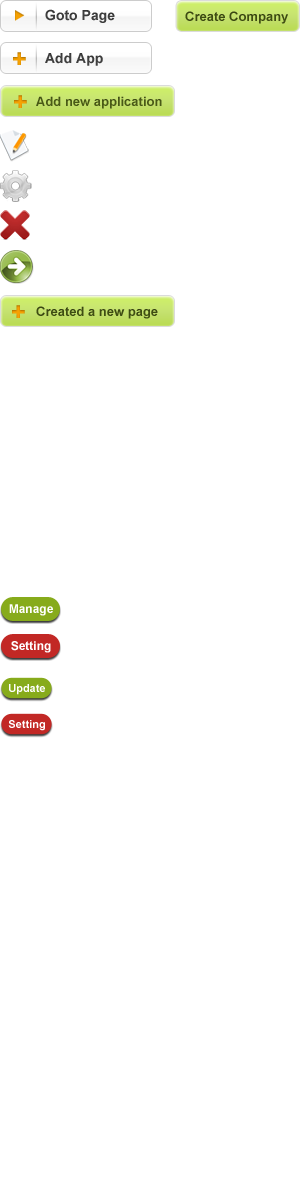
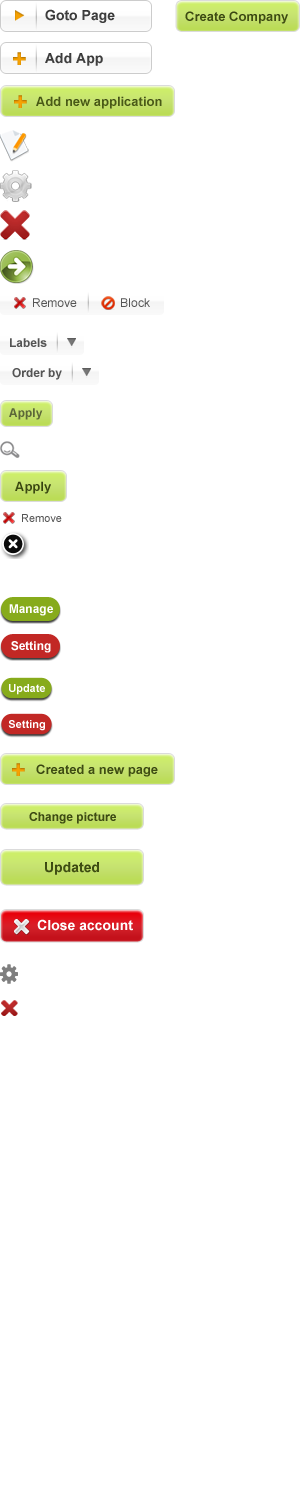
Update platform css

diff --git a/assets/css/common/platform.css b/assets/css/common/platform.css
@@ -811,12 +811,14 @@ div.popup-addapp>div:first-child+div div.strip { padding: 4px 0 20px;}
 /* --------------
 Button
 -----------------*/
-*.bt-go_page, *.bt-add_app, *.bt-addnew_app, *.bt-create_page, *.bt-edit, *.bt-setting, *.bt-delete, *.bt-go, *.bt-create_company, *.bt-manage_page, *.bt-setting_page, *.bt-update_app, *.bt-setting_app, *.bt-go-cam, *.bt-remove,*.bt-block, *.bt-label, *.bt-orderby, *.bt-apply  {
+*.bt-go_page, *.bt-add_app, *.bt-addnew_app, *.bt-create_page, *.bt-edit, *.bt-setting, *.bt-delete, *.bt-go, *.bt-create_company, *.bt-manage_page, *.bt-setting_page, *.bt-update_app, *.bt-setting_app, *.bt-go-cam, *.bt-remove,*.bt-block, *.bt-label, *.bt-orderby, *.bt-apply, *.bt-change_pic, *.bt-update, *.bt-close_account, *.bt-setting_company, *.bt-delete_company {
 	display: block;
 	background: url(../../images/bg/bg_button.png) no-repeat;
 	cursor: pointer;
+	border: none;
+	color: transparent;
 }
-*.bt-go_page span, *.bt-add_app span, *.bt-addnew_app span, *.bt-create_page span, *.bt-addnew_app span, *.bt-icon span, *.bt-create_company span, *.bt-manage_page span, *.bt-setting_page span , *.bt-update_app span, *.bt-setting_app span, *.bt-go span, *.bt-remove span,*.bt-block span, *.bt-label span, *.bt-orderby span,  *.bt-apply span{ display: none;}
+*.bt-go_page span, *.bt-add_app span, *.bt-addnew_app span, *.bt-create_page span, *.bt-addnew_app span, *.bt-icon span, *.bt-create_company span, *.bt-manage_page span, *.bt-setting_page span , *.bt-update_app span, *.bt-setting_app span, *.bt-go span, *.bt-remove span,*.bt-block span, *.bt-label span, *.bt-orderby span,  *.bt-apply span, *.bt-change_pic span, *.bt-update span, *.bt-close_account span, *.bt-setting_company span, *.bt-delete_company span {display: none;}
 *.bt-go_page {
 	width: 152px;
 	height: 32px;
@@ -932,9 +934,29 @@ Button
     height: 27px;
     width: 53px;
 }
-.bt-member {
-    padding-top: 7px;
+*.bt-member {padding-top: 7px;}
+*.bt-close_account {
+	display: block;
+	width: 144px;
+	height: 34px;
+	background-position: 0 -909px;
+	margin-top: 15px;
 }
+*.bt-setting_company {
+	float: left;
+	width: 18px;
+	height: 20px;
+	background-position: 0 -964px;
+}
+*.bt-delete_company {
+	float: right;
+	width: 18px;
+	height: 16px;
+	background-position: 0 -1000px;
+	margin: 3px 0 0;
+}
+
+
 .search {
 	display: block;
 	background: url(../../images/bg/bg_filter.png) no-repeat;
@@ -960,6 +982,23 @@ Button
 	background: url(../../images/bg/bg_button.png) no-repeat 0 -440px;
 	margin:5px 10px 0 0;
 }
+*.bt-change_pic {
+	display: block;
+	width: 144px;
+	height: 29px;
+	background-position: 0 -803px;
+	margin-bottom: 15px;
+}
+*.bt-update {
+	display: block;
+	width: 144px;
+	height: 39px;
+	background-position: 0 -849px;
+}
+*.bt-setting_company {}
+*.bt-delete_company {}
+
+
 /* --------------
 Filter-campaign
 -----------------*/
@@ -1338,4 +1377,162 @@ div.menuleft>ul>li>ul>li>ul>li>a:hover {
 	text-decoration: none;
 }
 div.menuleft>ul>li>ul>li>ul>li>a img {margin: 0 8px; border: 1px solid #d2d2d2; vertical-align: middle;} 
+
+
+/*setting right */
+div.wrapper-setting>div>div:first-child+div>div {
+	width: 600px;
+	margin: 0 auto;
+	border-bottom: 1px dotted #a6a6a6;
+	margin-bottom: 15px;
+}
+div.wrapper-setting>div>div:first-child+div>div.style01 {
+	background: #f3f3f3;
+	border: none;
+	-webkit-border-radius: 5px;
+    -moz-border-radius: 5px;
+    border-radius: 5px;
+}
+div.wrapper-setting>div>div:first-child+div>div>div { padding: 10px 35px;}
+div.wrapper-setting>div>div:first-child+div>div.style01>h2 span{ background: #f3f3f3 !important;}
+div.wrapper-setting>div>div:first-child+div>div.style01>h2 {background: url(../../images/bg/bg_setting-h2_01.png) 0 15px repeat-x;}
+
+div.wrapper-setting>div>div:first-child+div>div>h2 {
+	height: 33px;
+	line-height: 33px;
+	padding: 0 25px;
+	font-size: 20px;
+	font-weight: normal;
+	color: #555;
+	background: url(../../images/bg/bg_setting-h2.gif) 0 15px repeat-x;
+}
+div.wrapper-setting>div>div:first-child+div>div>h2 span {background: #fff; padding: 0 8px;}
+
+ul.form01 {padding: 15px 0;}
+ul.form01>li {
+	position: relative;
+	padding:  0 0 15px 160px;
+	font-size: 14px;
+	color: #3c3c3c;
+	min-height: 18px;
+}
+ul.form01>li>strong {
+	display: block;
+	width: 142px;
+	text-align: right;
+	position: absolute;
+	left: 0;
+	top: 0;
+	font-weight: normal;
+}
+ul.form01>li input[type="text"] {
+	width: 300px;
+	height: 25px;
+	padding: 0 5px;
+	border: 1px solid #e1e1e1;
+}
+ul.form01>li label {padding-right: 25px;}
+ul.form01>li.border {
+	border-bottom: 1px solid #e1e1e1;
+	margin-bottom: 15px;
+}
+
+p.head {
+	border-bottom: 1px solid #e1e1e1;
+	padding: 5px 0;
+	font-weight: bold;
+	width: 100%;
+	overflow: hidden;
+}
+p.head>span {float: left;}
+p.head>span:first-child {width: 142px; text-align: right;}
+p.head>span:first-child+span { width: 280px; padding-left: 18px;}
+ul.style01>li {
+	width: 290px;
+	padding: 0 0 10px 0;
+	position: relative;
+}
+ul.style01>li input[type="checkbox"] {
+	position: absolute;
+	left: 288px;
+	top: 3px;
+}
+
+div.pic-profile {
+	width: 145px;
+	min-height: 55px;
+	padding-left: 73px;
+	position: relative;
+	overflow: hidden;
+	font-size: 12px;
+	text-align: center;
+	background: url(../../images/bg/bg_or.png) 98% 32px no-repeat;
+}
+div.pic-profile p.pic {
+	float: left;
+	border: 3px solid #e3e3e3;
+	position: absolute;
+	left: 0;
+	top: 0;
+}
+div.box-company-manage {padding: 15px 0 !important;}
+div.box-company-manage>h2 {
+	font-size: 14px;
+	padding: 10px;
+	border-bottom: 1px solid #e1e1e1;
+	position: relative;
+}
+div.box-company-manage>h2 span {
+	position: absolute;
+	left: 514px;
+	top: 10px;
+}
+div.box-company-manage div.detail-list {
+	border-bottom: 1px solid #e1e1e1;
+	padding: 0 0 8px;
+}
+div.box-company-manage div.detail-list ul>li {position: relative;}
+div.box-company-manage div.detail-list ul>li>span {
+	display: block;
+    height: 35px;
+    line-height: 35px;
+    padding: 5px;
+	font-weight: bold;
+}
+div.box-company-manage div.detail-list ul>li>span img {
+    border: 1px solid #D2D2D2;
+    margin: 0 8px;
+    vertical-align: middle;
+}
+div.box-company-manage div.detail-list ul>li>ul {
+	padding: 10px 0 2px 20px;
+}
+div.box-company-manage div.detail-list ul>li>ul>li {
+    height: 25px;
+    line-height: 25px;
+    padding: 3px 5px 3px 9px;
+	margin-bottom: 7px;
+	position: relative;
+}
+div.box-company-manage div.detail-list ul>li>ul li img {
+	 border: 1px solid #D2D2D2;
+    margin: 0 8px;
+    vertical-align: middle;
+}
+div.box-company-manage div.detail-list ul li span.tools {
+	width: 55px;
+	height: auto;
+	line-height: inherit;
+	background: url(../../images/bg/bg_setting-company.gif) no-repeat 50% 50%;
+	overflow: hidden;
+	position: absolute;
+	right: 35px;
+	top: 7px;
+}
+div.box-company-manage div.detail-list ul>li>ul>li>span.tools {top: 0;} 
+
+
+
+
 .bg-none {background: none !important;}
+.border-none {border: none !important;}
